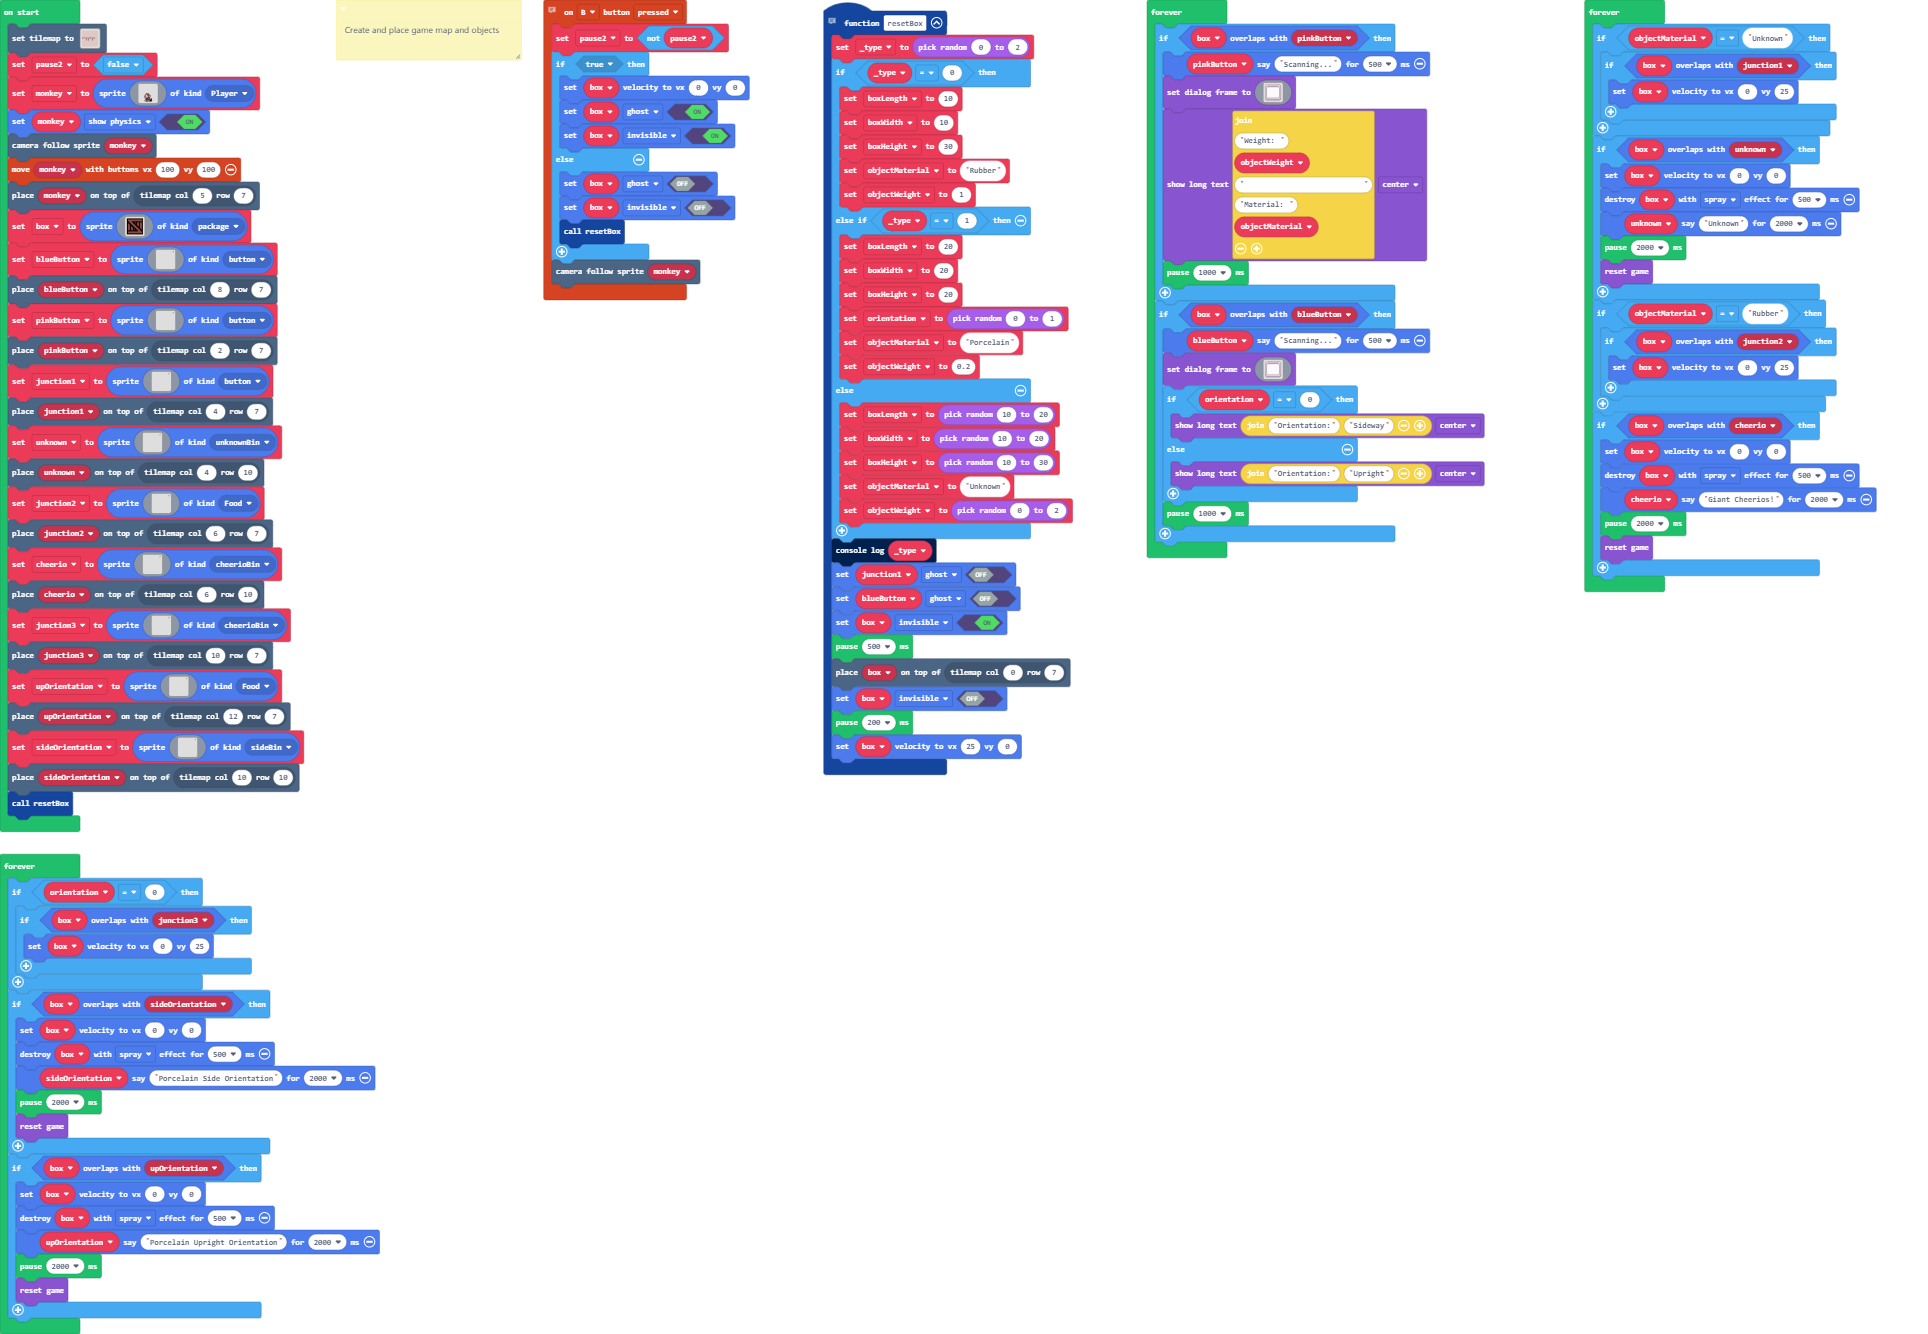
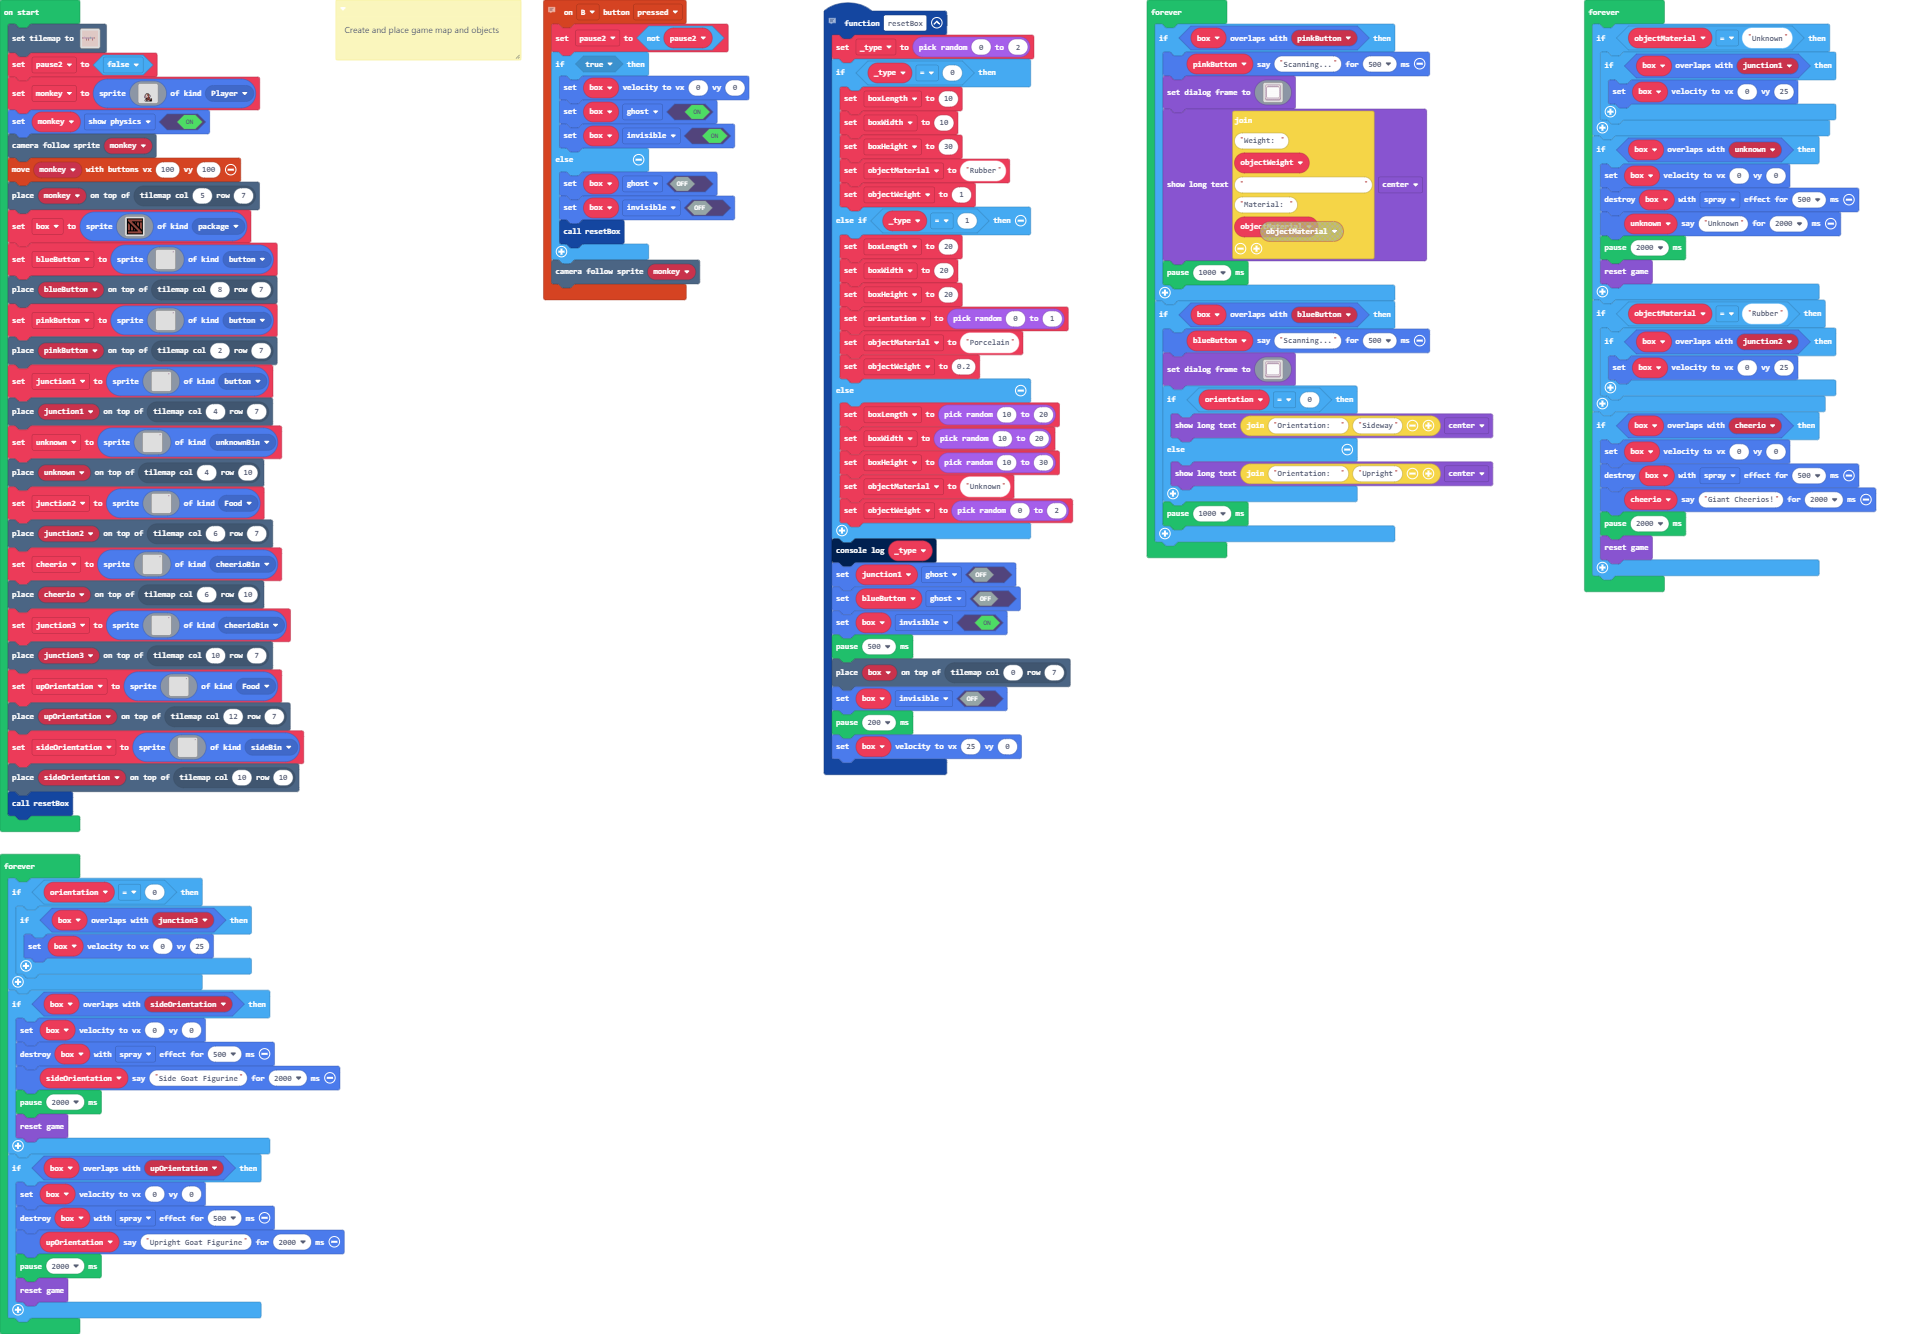
Update main.blocks, main.ts

diff --git a/main.ts b/main.ts
@@ -361,9 +361,9 @@ forever(function () {
             ..bbbbbbbbbbbbbbbbbbbb..
             `)
         if (orientation == 0) {
-            game.showLongText("Orientation:" + "Sideway", DialogLayout.Center)
+            game.showLongText("Orientation:  " + "Sideway", DialogLayout.Center)
         } else {
-            game.showLongText("Orientation:" + "Upright", DialogLayout.Center)
+            game.showLongText("Orientation:  " + "Upright", DialogLayout.Center)
         }
         pause(1000)
     }
@@ -403,14 +403,14 @@ forever(function () {
     if (box.overlapsWith(sideOrientation)) {
         box.setVelocity(0, 0)
         box.destroy(effects.spray, 500)
-        sideOrientation.say("Porcelain Side Orientation", 2000)
+        sideOrientation.say("Side Goat Figurine", 2000)
         pause(2000)
         game.reset()
     }
     if (box.overlapsWith(upOrientation)) {
         box.setVelocity(0, 0)
         box.destroy(effects.spray, 500)
-        upOrientation.say("Porcelain Upright Orientation", 2000)
+        upOrientation.say("Upright Goat Figurine", 2000)
         pause(2000)
         game.reset()
     }
